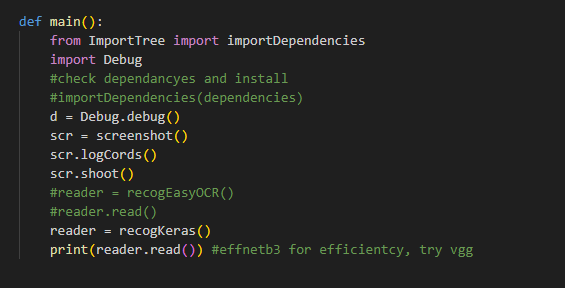
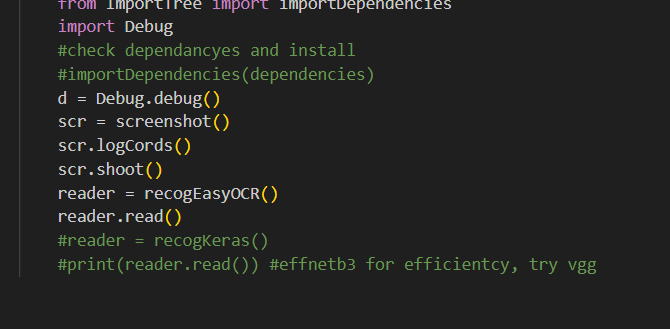
Section 1 FIN

Changed region(s): [[0.0301, 0.0625, 0.6619, 0.6875], [0.0903, 0.7188, 0.9027, 0.9062], [0.0903, 0.0, 0.692, 0.0312]]

diff --git a/CATS.py b/CATS.py
@@ -112,14 +112,14 @@ def main():
     scr = screenshot()
     scr.logCords()
     scr.shoot()    
-    #reader = recogEasyOCR()
-    #reader.read()
-    reader = recogKeras()
-    print(reader.read()) #effnetb3 for efficientcy, try vgg
+    reader = recogEasyOCR()
+    reader.read()
+    #reader = recogKeras()
+    #print(reader.read()) #effnetb3 for efficientcy, try vgg
     
 
 
 if __name__=='__main__':
     main()
 
-#aaaaaaaaaaaaaaaaaaaaaaaaaaaa/aaaaaaaaaaaaaa
+#aaaaaaaaaaaaaaaaaaaaaaaaaaaa/aaaaaaaaaaaaaaaaaaaa
